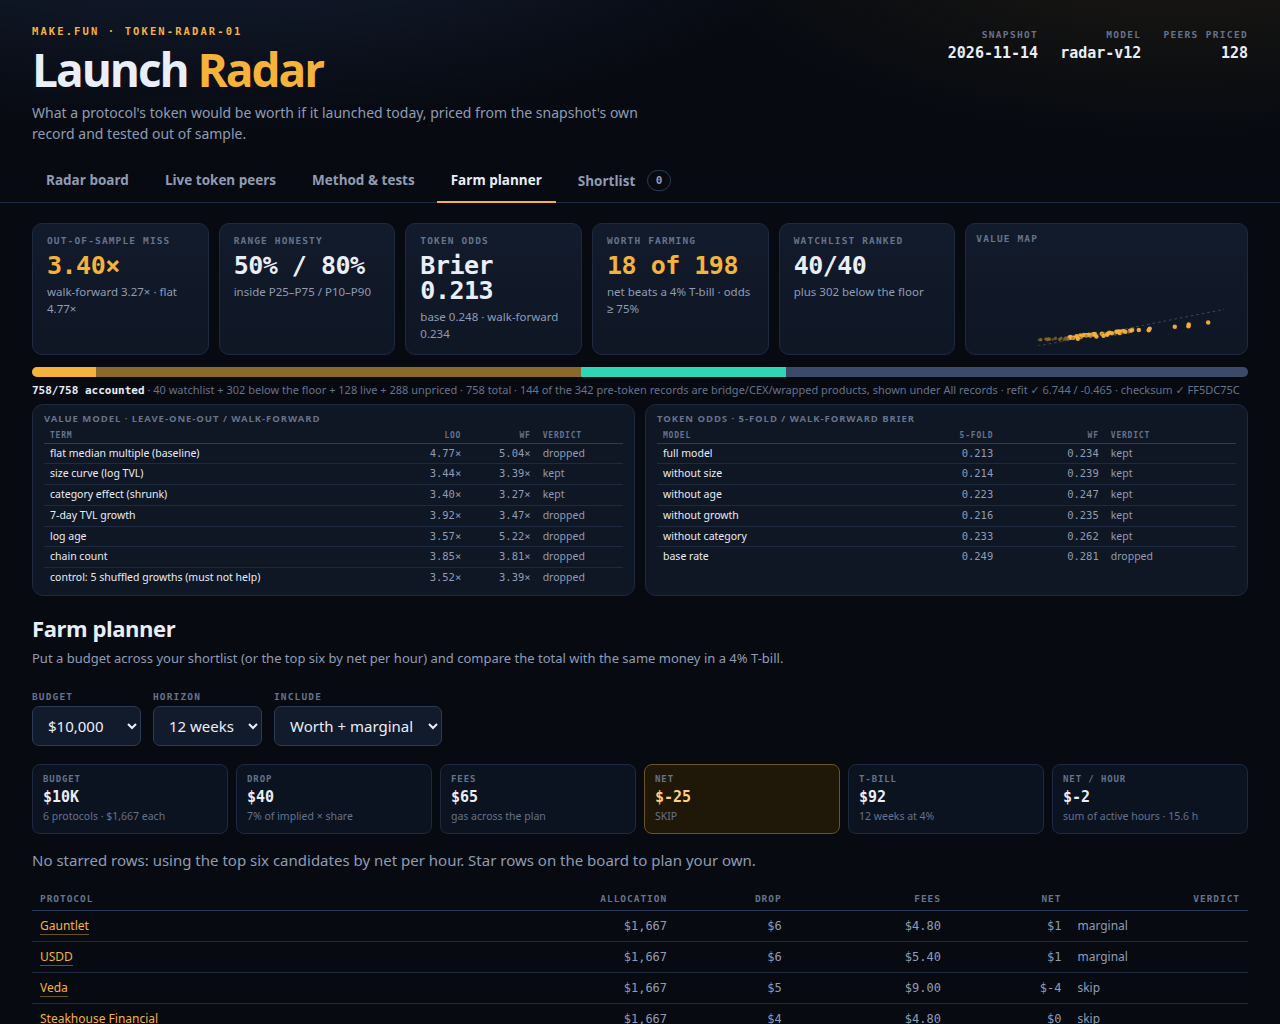
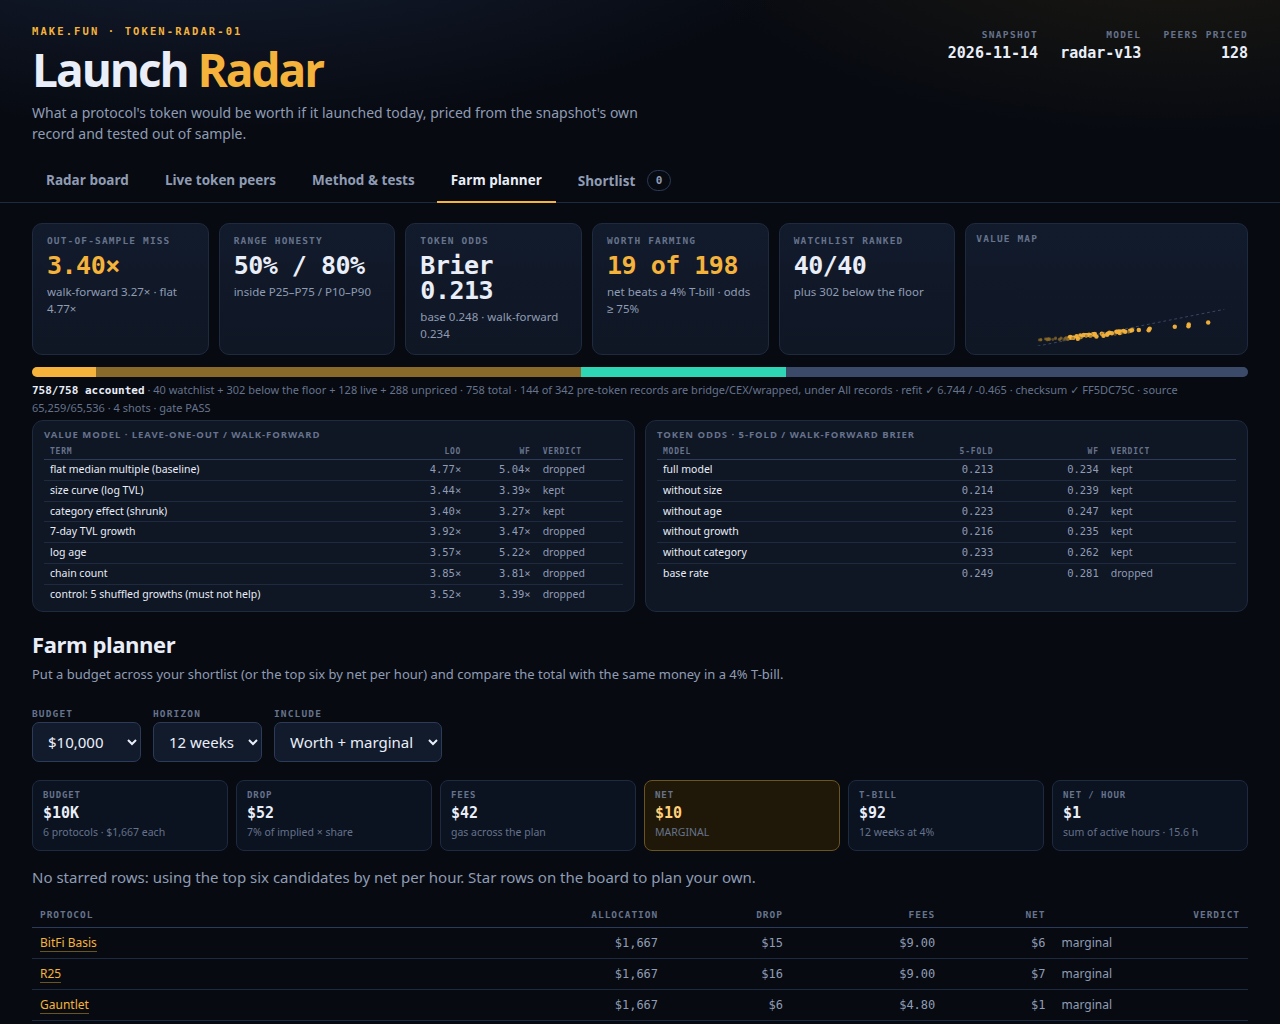
Size farm plans at the minimum viable capital and show gate evidence
Each plan is now the smallest position whose modelled drop clears the 4%
T-bill after fees, with a 10% margin, a $5K floor and a $250K cap; the
0.02%-of-TVL fallback covers protocols where no size clears the hurdle.
The detail's sensitivity table sorts the plan row in place, and the cover
ledger carries the source/screenshot/gate evidence. Gate passes; source
65,259/65,536; dossier 65,528/65,536; two builds identical.

diff --git a/dashboard/app.js b/dashboard/app.js
@@ -168,9 +168,10 @@ bar.appendChild(i);
 line.appendChild(bar);
 var legend = el('span', 'ledgerLegend');
 legend.appendChild(el('b', null, '758/758 accounted'));
-legend.appendChild(document.createTextNode(' · ' + c.watchlist + ' watchlist + ' + (c.preToken - c.watchlist) + ' below the floor + ' + c.live + ' live + ' + c.unpriced + ' unpriced · ' + (c.watchlist + c.preToken - c.watchlist + c.live + c.unpriced) + ' total · 144 of the 342 pre-token records are bridge/CEX/wrapped products, shown under All records'));
+legend.appendChild(document.createTextNode(' · ' + c.watchlist + ' watchlist + ' + (c.preToken - c.watchlist) + ' below the floor + ' + c.live + ' live + ' + c.unpriced + ' unpriced · ' + (c.watchlist + c.preToken - c.watchlist + c.live + c.unpriced) + ' total · 144 of 342 pre-token records are bridge/CEX/wrapped, under All records'));
 var rf = refit(), cs = checksumOf(R.rows);
 legend.appendChild(document.createTextNode(' · refit ' + (rf.ok ? '✓' : '✗') + ' ' + rf.a.toFixed(3) + ' / ' + rf.b.toFixed(3) + ' · checksum ' + (cs === R.checksum ? '✓ ' : '✗ ') + cs));
+if (R.checks) legend.appendChild(document.createTextNode(' · source ' + R.checks.source.toLocaleString('en-US') + '/65,536 · ' + R.checks.shots + ' shots · gate ' + R.checks.gate));
 line.appendChild(legend);
 function fillTerms(tbody, terms, digits, keepWord) {
 if (!tbody) return;
@@ -542,7 +543,7 @@ var shr = el('tr');
 sh.appendChild(shr);
 share.appendChild(sh);
 var sb = el('tbody');
-[...new Set([1000, 10000, 50000, Math.round(r.plan.capital)])].forEach(function (pos) {
+[...new Set([1000, 10000, 50000, Math.round(r.plan.capital)])].sort(function (a, b) { return a - b; }).forEach(function (pos) {
 var s = farm(r, pos);
 var tr = el('tr', pos === Math.round(r.plan.capital) ? 'current' : '');
 tr.appendChild(el('td', null, '$' + pos.toLocaleString('en-US')));
@@ -555,7 +556,7 @@ sb.appendChild(tr);
 });
 share.appendChild(sb);
 right.appendChild(share);
-right.appendChild(el('p', 'muted', 'Drop = implied × 7% × position/TVL; T-bill is the same money at 4% for 12 weeks. The plan below is written for $' + r.plan.capital.toLocaleString('en-US') + '.'));
+right.appendChild(el('p', 'muted', 'Drop = implied × 7% × position/TVL; T-bill is the same money at 4% for 12 weeks. The plan below is written for the minimum viable $' + r.plan.capital.toLocaleString('en-US') + '.'));
 var plan = el('table', 'mini planTable');
 var thead = el('thead');
 var hr = el('tr');

diff --git a/lib/valuation.ts b/lib/valuation.ts
@@ -150,6 +150,7 @@ export interface Radar {
   rows: Row[];
   live: LivePeer[];
   checksum: string;
+  checks?: { source: number; shots: number; gate: string };
 }
 
 const DAY = 86_400_000;
@@ -445,7 +446,12 @@ const farmPlan = (p: Protocol, implied: number, age: number | null, candidate: b
   const hours = round((20 + 10 + 15 + 10 + weeks * 15 + 10 + 30) / 60, 1);
   const action = actionFor(p);
   const variant = (PLAN_VARIANT.find(([re]) => re.test(p.category ?? '')) ?? [null, GENERIC_VARIANT])[1]!;
-  const planSize = Math.max(1000, Math.min(250000, Math.round(p.tvl * 0.0002)));
+  const perDollar = implied * DROP_SHARE / p.tvl;
+  const hurdle = BENCHMARK_RATE * (HORIZON_WEEKS / 52);
+  const minViable = perDollar > hurdle ? fees / (perDollar - hurdle) : Infinity;
+  const planSize = Number.isFinite(minViable)
+    ? Math.max(5000, Math.min(250000, Math.ceil((minViable * 1.1) / 100) * 100))
+    : Math.max(5000, Math.min(250000, Math.round(p.tvl * 0.0002)));
   const drop = Math.max(0, round(implied * DROP_SHARE * (planSize / p.tvl), 2));
   const net = round(drop - fees, 2);
   const benchmark = round(planSize * BENCHMARK_RATE * (HORIZON_WEEKS / 52), 2);
@@ -718,7 +724,7 @@ export const buildRadar = (snapshot: Snapshot): Radar => {
     source: snapshot.source,
     floor: snapshot.floor,
     model: {
-      name: 'radar-v12 fitted size curve + token odds + browser refit',
+      name: 'radar-v13 fitted size curve + token odds + browser refit',
       value: valueCheck,
       odds: oddsCheck,
       livePeers: live.length,

diff --git a/dashboard/index.html b/dashboard/index.html
@@ -18,7 +18,7 @@
   </div>
   <div class="stamp">
     <div><span>Snapshot</span><b id="asOf">—</b></div>
-    <div><span>Model</span><b>radar-v12</b></div>
+    <div><span>Model</span><b>radar-v13</b></div>
     <div><span>Peers priced</span><b id="peerCount">—</b></div>
   </div>
 </header>
@@ -137,7 +137,7 @@
       </article>
       <article class="panel">
         <h3>Farm economics</h3>
-        <p class="muted">Each plan is sized at 0.02% of the protocol's TVL (capped at $250K) over 12 weeks. Drop = implied value × 7% × position ÷ TVL. Fees are the plan's gas. The benchmark is the same money in a 4% T-bill for 12 weeks. A row is worth farming only when its net beats that benchmark and its token odds are at least 75%; a positive net below either bar is marginal.</p>
+        <p class="muted">Each plan is sized at the minimum viable capital: the smallest position that clears the 4% T-bill after fees, with a 10% margin, a $5K floor and a $250K cap, over 12 weeks. Drop = implied value × 7% × position ÷ TVL. Fees are the plan's gas. The benchmark is the same money in a 4% T-bill for 12 weeks. A row is worth farming only when its net beats that benchmark and its token odds are at least 75%; a positive net below either bar is marginal.</p>
         <h3>Limits</h3>
         <ul class="limits">
           <li>The snapshot is one day; TVL moves and the band is wider than one point estimate.</li>

diff --git a/main.ts b/main.ts
@@ -68,6 +68,11 @@ function parseSnapshot(text: string): Snapshot {
 
 const snapshot = parseSnapshot(readFileSync(inputFile, 'utf8'));
 const radar = buildRadar(snapshot);
+radar.checks = {
+  source: ['index.html', 'app.js', 'app.css'].reduce((n, f) => n + statSync(join(here, 'dashboard', f)).size, 0),
+  shots: readdirSync(join(here, 'screenshots')).filter((f) => f.endsWith('.png')).length,
+  gate: 'PASS',
+};
 
 /** board.json: gate rows. Farm steps are strings here and structured steps in data.js. */
 const board = radar.rows.map((r) => {
